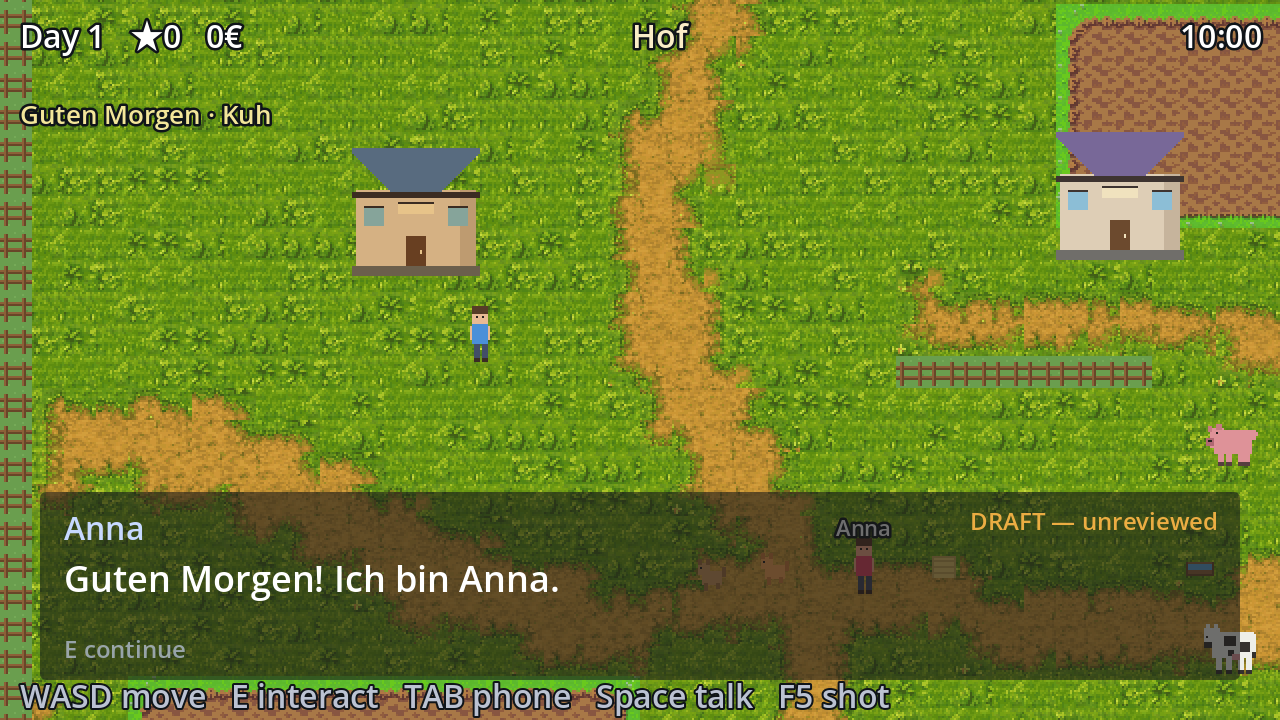
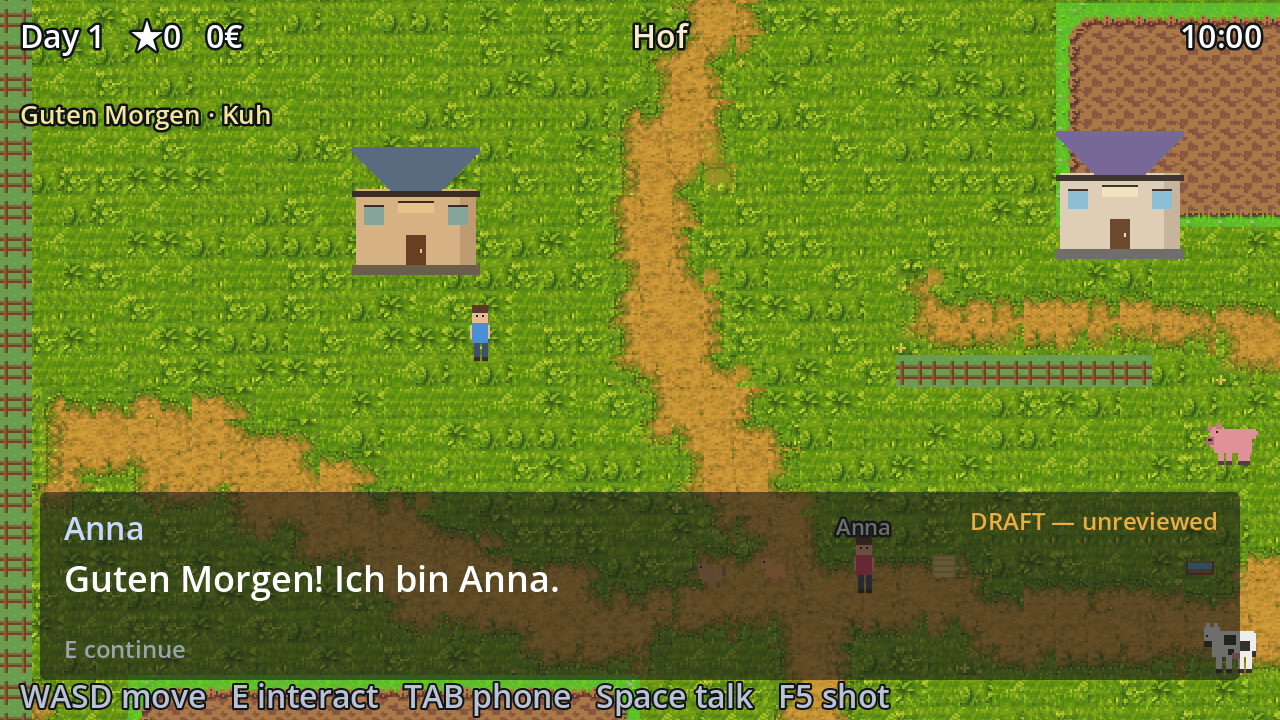
Keep ground tiles at the ÷4 scale, not the source resolution
Tried extracting at the reference's own 1536x1024 as well as ÷2 and ÷4.

Native loses the art. The reference's charm is its scatter — wildflowers,
leaf clumps, stones — and those features are sized to read as single elements
on a 16px tile once the image is back at 384x256. Extracted at source
resolution, one flower spans several tiles and dissolves into texture noise:
smoother, and much duller.

Records the finding in the tool so the next person does not repeat the
experiment.

diff --git a/tools/extract_ground_tileset.py b/tools/extract_ground_tileset.py
@@ -106,6 +106,11 @@ def purity(tile, want_dirt):
 def main():
     ap = argparse.ArgumentParser(description=__doc__)
     ap.add_argument("source")
+    # Tried 1, 2 and 4 against the founder's reference. 4 is right: the
+    # reference's flowers, leaf clumps and stones are sized to read as single
+    # features on a 16px tile at that scale. At 1 (the file's own resolution)
+    # one flower spans several tiles and dissolves into noise — the scatter,
+    # which is the whole charm of the reference, disappears.
     ap.add_argument("--scale", type=int, default=4,
                     help="upscale factor of the source (default 4)")
     ap.add_argument("--colors", type=int, default=48,
